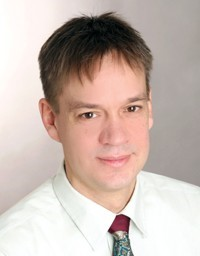
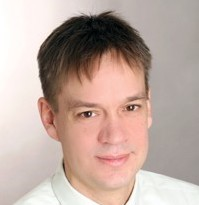
peope circled and squared

diff --git a/werkstoffe_kompetenzen.html b/werkstoffe_kompetenzen.html
@@ -16,18 +16,6 @@ breadcrumbs:
 - Werkstoffe
 - Kompetenzen
 ---
-<section class="scheme-{{include.color_scheme}}">
-  <div class="container">
-    <div class="row">
-      <div class="col-md-12 ">
-
-        <p>Im Rahmen seiner Lehr- und Forschungstätigkeit verfügt das Institut für Werkstoffe des Bauwesens über verschiedene Labore. Hierzu gehören das Chemielabor, das Bindemittellabor, das Betonlabor sowie das Labor für Strukturanalyse. Mit dem Ziel einer praxisbezogenen Ausbildung finden in den Laboren auch vielfältige Lehrveranstaltungen unter aktiver Beteiligung der Studenten statt.</p>
-
-      </div>
-    </div>
-  </div>
-</section>
-
 
 {% include bau_kompetenzen.html %}
 

diff --git a/_includes/single_inline_person.html b/_includes/single_inline_person.html
@@ -2,7 +2,7 @@
 {% for item in site.posts %}
 {% if item.name == include.person %}
 <article class="post media-post clearfix pb-0 mb-10">
-  <a href="{{item.url}}" class="post-thumb mr-20"><img width="120" style="width: 120px" alt="" src="{{ item.image }}"></a>
+  <a href="{{item.url}}" class="post-thumb mr-20"><img class="img-circle" width="120" style="width: 120px" alt="" src="{{ item.image }}"></a>
   <div class="post-right">
     <h3 class="mt-0 mb-5"><a href="#">{{ item.position }}</a></h3>
     <p class="mb-0 font-16">{{ item.title }}</p>

diff --git a/bau_studiengang_ba.html b/bau_studiengang_ba.html
@@ -13,8 +13,8 @@ breadcrumbs:
 - BAU
 - Übersicht
 orgkontakt:
-- name: geralt_siebert
 - name: christian_jacoby
+- name: otto_heunecke
 - name: karin_baechle
 ---
 

diff --git a/_posts/people/2017-03-12-christian-jacoby.md b/_posts/people/2017-03-12-christian-jacoby.md
@@ -1,7 +1,7 @@
 ---
 layout: bio
 title: Univ.-Prof. Dr.-Ing. Christian Jacoby
-position: Sekretariat
+position: Studiendekan
 name: christian_jacoby
 hero_overline: INSTITUT FÜR VERKEHRSWESEN UND RAUMPLANUNG (IVR)
 hero_title: Univ.-Prof. Dr.-Ing. Christian Jacoby
